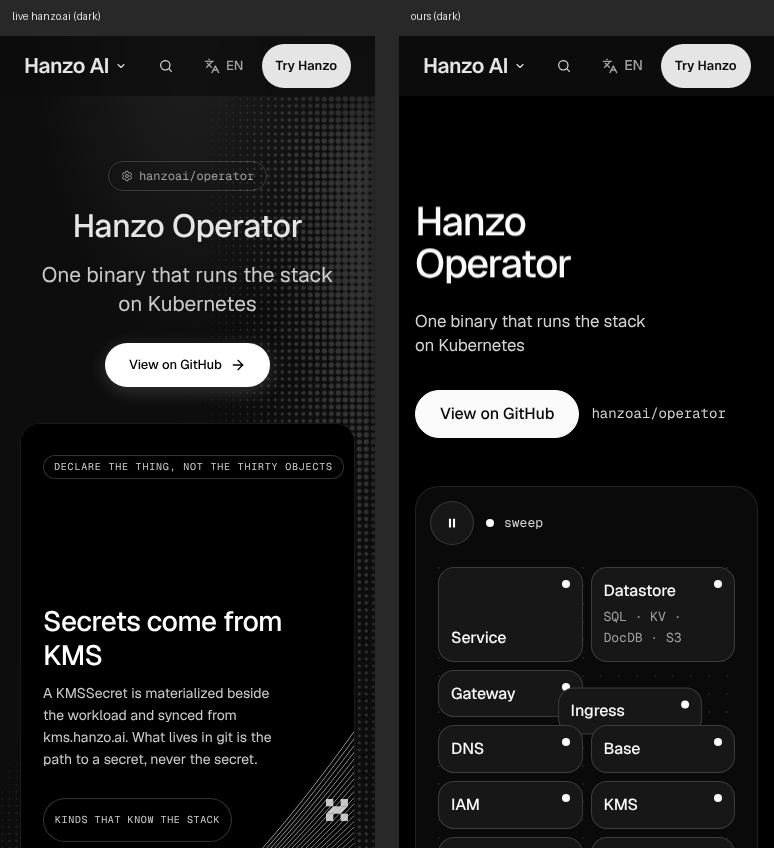
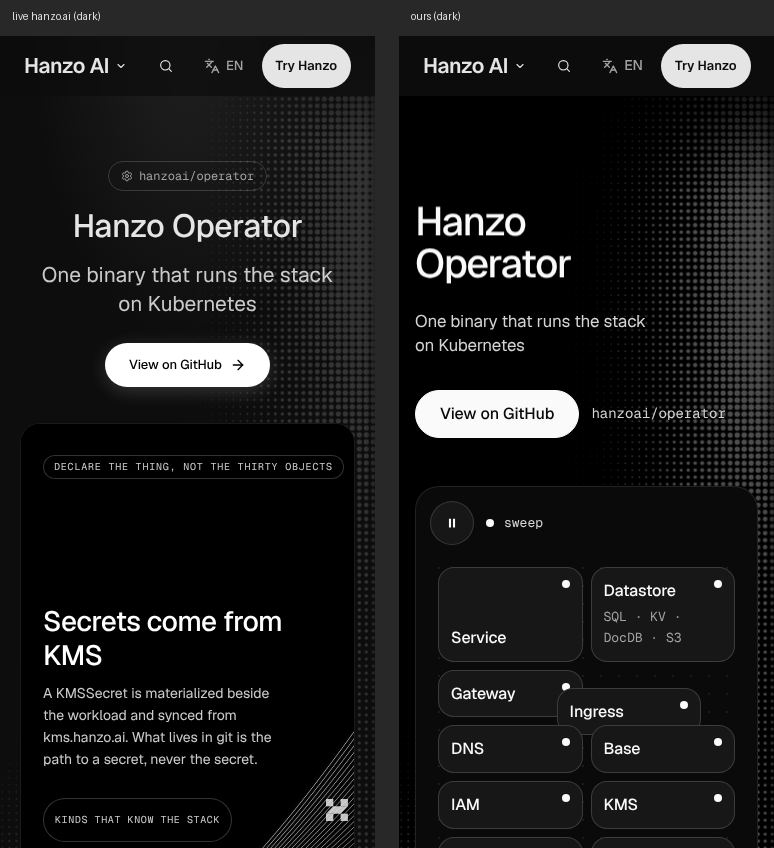
operator: dark mode — live's hero halftone (HeroDither) in the control-room hero, dark only
Claude-Session: https://claude.ai/code/session_01P5YBdv7StJZXmK5oNtoxtW

Changed region(s): [[0.8372, 0.1226, 1.0, 1.0], [0.7132, 0.8278, 0.8062, 0.8585]]

diff --git a/components/pages/Operator.jsx b/components/pages/Operator.jsx
@@ -22,6 +22,7 @@ import A2Paste from '../v2/A2Paste';
 import A2Pause from '../v2/A2Pause';
 import NoJs from '../NoJs';
 import { T, EMPH, INOUT } from '../v2/A2Motion';
+import HeroDither from './HeroDither';
 import '../v2/A2.css';
 import './Operator.css';
 
@@ -113,6 +114,7 @@ function Board() {
 function Hero() {
   return (
     <section className="a2-dark xop-hero" data-room="dark" aria-labelledby="xop-h1">
+      <HeroDither />
       <div className="a2-wrap a2-grid xop-hero-grid">
         <div className="xop-hero-copy">
           <MaskLines as="h1" id="xop-h1" className="a2-display xop-h1" lines={['Hanzo', 'Operator']} amount={0.1} />

diff --git a/components/pages/Operator.css b/components/pages/Operator.css
@@ -3,6 +3,7 @@
 /* dark mode: A2's page greys (--soft, --faint, --card, --line) are light values on .a2, so in dark this page points them
    at Hanzo's own tokens (docs/DARK-MODE.md) */
 html:not(.light) .xop { --acc: var(--foreground); --acc-soft: var(--muted); --soft: var(--muted-foreground); --faint: var(--text-tertiary); --card: var(--muted); --line: var(--border); }
+html:not(.light) .xop-hero { position: relative; } /* holds live's hero halftone (HeroDither) */
 
 /* the hero is the first dark room: a control room */
 .xop-hero { padding: clamp(104px, 13vh, 140px) 0 clamp(72px, 8vw, 120px); overflow: hidden; }
